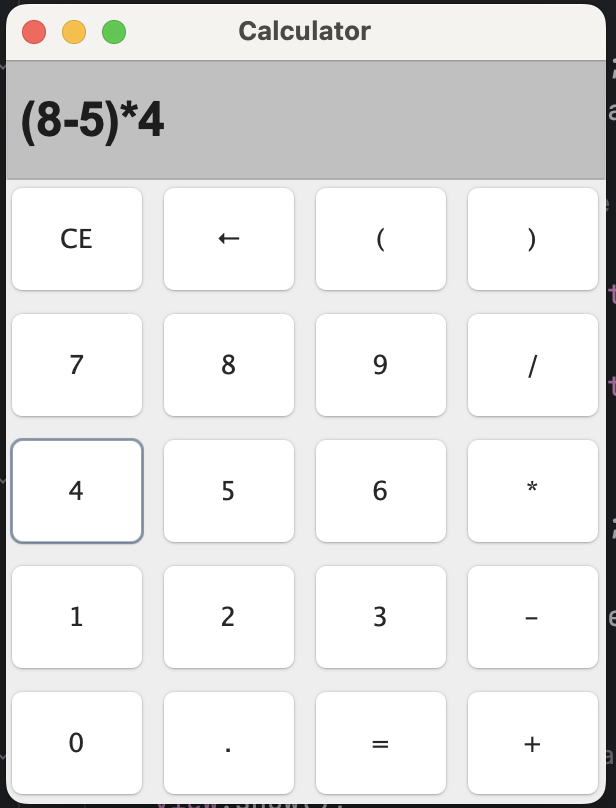
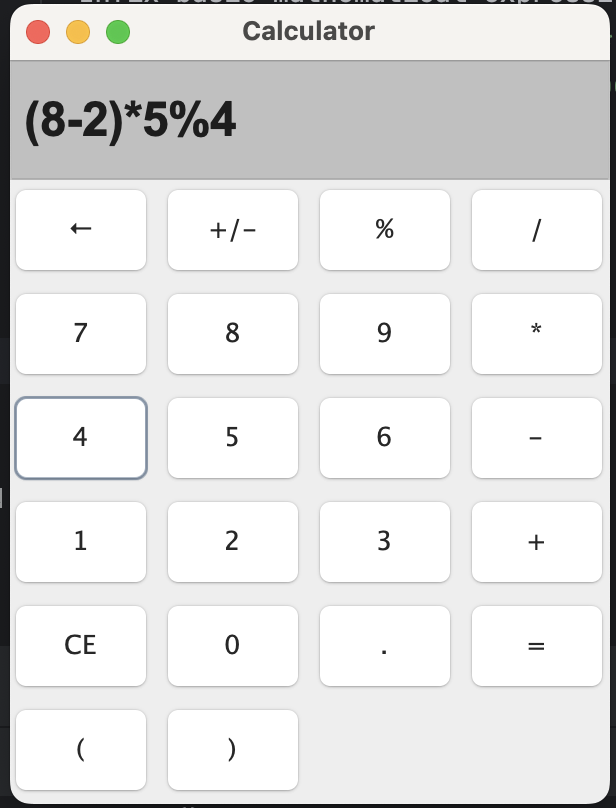
docs: update README.md with new image

diff --git a/README.md b/README.md
@@ -5,8 +5,14 @@ GUI programming with Java and AWT library.
 
 ## Features
 * Infix basic mathematical expression parsing and evaluation (e.g.: `((5 - 2) / 3) * 1.5`)
-* Supported operators: `+`, `-`, `*`, `/`
+* Supported operators: `+`, `-`, `*`, `/`, `%`
 * Supported numbers set: `Real Numbers`
+
+### WIP
+
+* Calculator modules:
+  * Basic
+  * Scientific
 
 ## Example
 ![image](./assets/screen.png)
